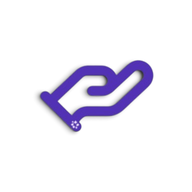
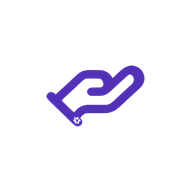
تحديث صفحة المساعد

Changed region(s): [[0.1875, 0.3125, 0.8125, 0.7188], [0.625, 0.4062, 0.6562, 0.4375], [0.5938, 0.4375, 0.625, 0.4688]]

diff --git a/src/routes/shared.js b/src/routes/shared.js
@@ -25,7 +25,7 @@ if(!c.u)return{reply:'سجّل دخولك حتى أبحث لك عن المساع
 const hits=matchSections(t),city=ASSIST_CITIES.find(x=>t.includes(x))||null;
 if(!hits.length){run("INSERT INTO failed_searches(text,reason,city) VALUES(?,'no_category',?)",cleanSearch(t),city);return{reply:'لم أجد قسمًا مناسبًا لطلبك. جرّب وصف الخدمة بكلمات أخرى، أو اقترح قسمًا جديدًا إذا كانت خدمتك غير موجودة.',noMatch:1,sections:all('SELECT id,name FROM skill_categories ORDER BY sort,name'),providers:[],requests:[]}}
 const ids=hits.map(h=>h.id),ph=ids.map(()=>'?').join(','),names=hits.map(h=>h.name).join('، ');const modeOf=Object.fromEntries(all(`SELECT id,mode FROM skill_categories WHERE id IN (${ph})`,...ids).map(r=>[r.id,r.mode]));const onlineIds=ids.filter(i=>modeOf[i]==='online');let onsiteIds=ids.filter(i=>modeOf[i]!=='online');const closedCity=!!(city&&onsiteIds.length&&!cityOpen(city));if(closedCity)onsiteIds=[];const onsiteQ=onsiteIds.map(()=>'?').join(',')||'NULL',onlineQ=onlineIds.map(()=>'?').join(',')||'NULL';
-const providers=all(`SELECT u.id,u.name,u.city,(SELECT COUNT(*) FROM agreements g WHERE (g.a_id=u.id OR g.b_id=u.id) AND g.status='completed') done,(SELECT ROUND(AVG(a.stars),1) FROM ratings a WHERE a.ratee_id=u.id AND a.hidden=0) avg,(SELECT COUNT(*) FROM ratings a WHERE a.ratee_id=u.id AND a.hidden=0) rcount,(SELECT COUNT(*) FROM post_likes pl JOIN posts p ON p.id=pl.post_id WHERE p.user_id=u.id AND p.hidden=0) likes,(SELECT value FROM settings WHERE key='avatar:'||u.id) avatar,COUNT(DISTINCT us.category_id) matched FROM users u JOIN user_sections us ON us.user_id=u.id WHERE ((us.category_id IN (${onsiteQ}) ${city?"AND u.city LIKE ? ESCAPE '\\'":''}) OR us.category_id IN (${onlineQ})) AND u.active=1 AND u.email_verified=1 AND u.flagged=0 AND (u.vat_status IS NOT 'registered' OR u.vat_verified!=2) AND (u.suspended_until IS NULL OR u.suspended_until<=datetime('now'))  GROUP BY u.id ORDER BY matched DESC,done DESC,avg DESC LIMIT 10`,...onsiteIds,...(city?[`%${likeEsc(city)}%`]:[]),...onlineIds);
+const providers=all(`SELECT u.id,u.name,u.city,(SELECT COUNT(*) FROM agreements g WHERE (g.a_id=u.id OR g.b_id=u.id) AND (g.status='completed' OR (g.paid_at IS NOT NULL AND g.status NOT IN ('disputed','closed_disputed','cancelled')))) done,(SELECT ROUND(AVG(a.stars),1) FROM ratings a WHERE a.ratee_id=u.id AND a.hidden=0) avg,(SELECT COUNT(*) FROM ratings a WHERE a.ratee_id=u.id AND a.hidden=0) rcount,(SELECT COUNT(*) FROM post_likes pl JOIN posts p ON p.id=pl.post_id WHERE p.user_id=u.id AND p.hidden=0) likes,(SELECT value FROM settings WHERE key='avatar:'||u.id) avatar,COUNT(DISTINCT us.category_id) matched FROM users u JOIN user_sections us ON us.user_id=u.id WHERE ((us.category_id IN (${onsiteQ}) ${city?"AND u.city LIKE ? ESCAPE '\\'":''}) OR us.category_id IN (${onlineQ})) AND u.active=1 AND u.email_verified=1 AND u.flagged=0 AND (u.vat_status IS NOT 'registered' OR u.vat_verified!=2) AND (u.suspended_until IS NULL OR u.suspended_until<=datetime('now'))  GROUP BY u.id ORDER BY matched DESC,done DESC,avg DESC LIMIT 10`,...onsiteIds,...(city?[`%${likeEsc(city)}%`]:[]),...onlineIds);
 if(!providers.length)run("INSERT INTO failed_searches(text,reason,city,category_id) VALUES(?,'no_provider',?,?)",cleanSearch(t),city,hits[0].id);
 const closedNote=closedCity?`الخدمات الحضورية (${names}) في ${city} ما زالت قيد التجهيز، وستُفتح عند توفر مساعدين كافين. `:'';
 const reply=closedNote+(providers.length?`وجدت ${providers.length} مساعدًا مسجلًا في: ${names}${city?' في '+city:''}.`:`لا يوجد مساعدون مسجلون في: ${names}${city?' في '+city:''} بعد.`+(city?'':' حدّد المدينة لنتائج أدق.'));
@@ -40,4 +40,4 @@ for(const k of new Set([normAr(name),...kws]))run('INSERT OR IGNORE INTO skill_k
 all("SELECT id FROM users WHERE role='admin'").forEach(a=>notify(a.id,`مهارة جديدة بانتظار الاعتماد: ${name}`,'#/admin'));return{id,status:'pending'}});
 route('GET','/providers/(\\d+)',c=>{const id=+c.p[0];const u=get('SELECT id,name,city,bio FROM users WHERE id=? AND active=1',id);if(!u)throw err(404,'المساعد غير موجود');
 const ex=get('SELECT account_type t,map_url m FROM users WHERE id=?',id)||{};let showcase=[];try{showcase=JSON.parse((get('SELECT value FROM settings WHERE key=?','showcase:'+id)||{}).value||'[]').map(a=>({attachment_id:a,mime:get('SELECT mime FROM attachments WHERE id=?',a)?.mime||''}))}catch{}
-return{id:u.id,is_helper:ex.t==='helper',map_url:ex.m||'',showcase,name:u.name,city:u.city||'',bio:u.bio||'',short_address:(get('SELECT short_address s FROM users WHERE id=?',id)||{}).s||(get("SELECT number FROM helper_docs WHERE user_id=? AND kind='address'",id)||{}).number||'',skills:(()=>{const sp=all("SELECT s.name FROM user_skills us JOIN skills s ON s.id=us.skill_id WHERE us.user_id=? AND s.status='approved' ORDER BY s.name",id).map(x=>x.name);return sp.length?sp:all("SELECT c.name FROM user_sections us JOIN skill_categories c ON c.id=us.category_id WHERE us.user_id=? ORDER BY c.sort",id).map(x=>x.name)})(),done:get("SELECT COUNT(*) n FROM agreements WHERE (a_id=? OR b_id=?) AND status='completed'",id,id).n,clients:get('SELECT COUNT(DISTINCT CASE WHEN a_id=? THEN b_id ELSE a_id END) n FROM agreements WHERE a_id=? OR b_id=?',id,id,id).n,avg:get('SELECT ROUND(AVG(stars),1) a FROM ratings WHERE ratee_id=? AND hidden=0',id).a,count:get('SELECT COUNT(*) n FROM ratings WHERE ratee_id=? AND hidden=0',id).n,reviews:all("SELECT a.stars,a.comment,a.created_at,r.name,r.account_type FROM ratings a JOIN users r ON r.id=a.rater_id WHERE a.ratee_id=? AND a.hidden=0 ORDER BY a.id DESC LIMIT 10",id).map(x=>({stars:x.stars,comment:x.comment||'',at:String(x.created_at).slice(0,10),name:/* العميل: الاسم الأول فقط للخصوصية. المساعد (مؤسسة/شركة): الاسم كاملًا */x.account_type==='helper'?String(x.name):String(x.name).split(' ')[0]})),avatar:(get('SELECT value FROM settings WHERE key=?','avatar:'+id)||{}).value||null,cover:(get('SELECT value FROM settings WHERE key=?','cover:'+id)||{}).value||null,portfolio:all('SELECT p.id,p.attachment_id,p.caption,p.kind,a.mime FROM portfolio p JOIN attachments a ON a.id=p.attachment_id WHERE p.user_id=? ORDER BY p.id DESC LIMIT 30',id)}});
+return{id:u.id,is_helper:ex.t==='helper',map_url:ex.m||'',showcase,name:u.name,city:u.city||'',bio:u.bio||'',short_address:(get('SELECT short_address s FROM users WHERE id=?',id)||{}).s||(get("SELECT number FROM helper_docs WHERE user_id=? AND kind='address'",id)||{}).number||'',skills:(()=>{const sp=all("SELECT s.name FROM user_skills us JOIN skills s ON s.id=us.skill_id WHERE us.user_id=? AND s.status='approved' ORDER BY s.name",id).map(x=>x.name);return sp.length?sp:all("SELECT c.name FROM user_sections us JOIN skill_categories c ON c.id=us.category_id WHERE us.user_id=? ORDER BY c.sort",id).map(x=>x.name)})(),done:get("SELECT COUNT(*) n FROM agreements WHERE (a_id=? OR b_id=?) AND (status='completed' OR (paid_at IS NOT NULL AND status NOT IN ('disputed','closed_disputed','cancelled')))",id,id).n,clients:get('SELECT COUNT(DISTINCT CASE WHEN a_id=? THEN b_id ELSE a_id END) n FROM agreements WHERE a_id=? OR b_id=?',id,id,id).n,avg:get('SELECT ROUND(AVG(stars),1) a FROM ratings WHERE ratee_id=? AND hidden=0',id).a,count:get('SELECT COUNT(*) n FROM ratings WHERE ratee_id=? AND hidden=0',id).n,reviews:all("SELECT a.stars,a.comment,a.created_at,r.name,r.account_type FROM ratings a JOIN users r ON r.id=a.rater_id WHERE a.ratee_id=? AND a.hidden=0 ORDER BY a.id DESC LIMIT 10",id).map(x=>({stars:x.stars,comment:x.comment||'',at:String(x.created_at).slice(0,10),name:/* العميل: الاسم الأول فقط للخصوصية. المساعد (مؤسسة/شركة): الاسم كاملًا */x.account_type==='helper'?String(x.name):String(x.name).split(' ')[0]})),avatar:(get('SELECT value FROM settings WHERE key=?','avatar:'+id)||{}).value||null,cover:(get('SELECT value FROM settings WHERE key=?','cover:'+id)||{}).value||null,portfolio:all('SELECT p.id,p.attachment_id,p.caption,p.kind,a.mime FROM portfolio p JOIN attachments a ON a.id=p.attachment_id WHERE p.user_id=? ORDER BY p.id DESC LIMIT 30',id)}});

diff --git a/public/app.js b/public/app.js
@@ -83,7 +83,7 @@ const SV=p=>`<svg viewBox="0 0 24 24" class=dcs aria-hidden="true">${p}</svg>`;
 const TOPIC_P='<rect x="5" y="3" width="14" height="18" rx="2.5"/><path d="M9 8h6M9 12h6M9 16h4"/>',CARD_P='<rect x="2.5" y="5.5" width="19" height="13" rx="2.5"/><path d="M2.5 10h19"/>',DOTS_P='<circle cx="5" cy="12" r="1.8" fill="currentColor"/><circle cx="12" cy="12" r="1.8" fill="currentColor"/><circle cx="19" cy="12" r="1.8" fill="currentColor"/>',PERSON_P='<circle cx="12" cy="8" r="4"/><path d="M4 21c0-4.4 3.6-7 8-7s8 2.6 8 7"/>',RECEIPT_P='<path d="M6 3h12v18l-3-2-3 2-3-2-3 2z"/><path d="M9 8h6M9 12h6"/>',MONEY_P='<rect x="2.5" y="6.5" width="19" height="11" rx="2"/><circle cx="12" cy="12" r="2.5"/>',LINK_P='<path d="M10 14a4 4 0 0 0 5.7 0l3-3a4 4 0 0 0-5.7-5.7l-1 1"/><path d="M14 10a4 4 0 0 0-5.7 0l-3 3a4 4 0 0 0 5.7 5.7l1-1"/>',CHECK_P='<path d="M5 12.5l4.5 4.5L19 7.5"/>';
 const SEND_SVG='<svg viewBox="0 0 24 24" class=dcs-fill aria-hidden="true"><path d="M3.4 11.1 20.6 3.3c.8-.4 1.6.4 1.2 1.2l-7.8 17.2c-.4.8-1.5.8-1.8 0l-2.2-6.7-6.7-2.2c-.8-.3-.8-1.4 0-1.6z"/></svg>';
 function DCHAT_MARKUP(){return `<section id=dchat><div id=dagr class=agr></div><div id=dmsgs class=dmsgs></div></section><form id=dform autocomplete=off><button type=button class=dc-attach id=dpic aria-label="إرفاق صورة">${SV(I.clip)}</button><input name=body maxlength=1000 placeholder="اكتب رسالتك..." aria-label="اكتب رسالتك"><button type=button class=dc-task id=dtask hidden></button><button class=dc-send aria-label="إرسال">${SEND_SVG}</button></form>`}
-async function directChat(id){if(!me.user){window.__postLogin=location.hash;location.hash='#/login';return}const peer=await api('/users/'+id).catch(()=>null);const name=(peer&&peer.name)||'المستخدم';document.body.classList.add('dchat-mode');app.innerHTML=`<div class=dc-top><span class=dc-logo><img src=/hand.png alt=""></span><div class=dc-title><b>${esc(name)}</b></div><div class=dc-plus-wrap><button type=button class=dc-plus id=plusBtn aria-haspopup=true aria-expanded=false aria-label="إضافة">+</button><div class=plus-menu id=plusMenu hidden><button type=button data-p=paylink id=plusPay hidden>رابط دفع${SV(CARD_P)}</button></div></div><button type=button class=dc-dots id=dcMenu aria-label="المحادثات السابقة">${SV(DOTS_P)}</button></div>`+DCHAT_MARKUP();$('#dcMenu').onclick=dcOpenDrawer;dchatInit(id)}
+async function directChat(id){if(!me.user){window.__postLogin=location.hash;location.hash='#/login';return}const peer=await api('/users/'+id).catch(()=>null);const name=(peer&&peer.name)||'المستخدم';document.body.classList.add('dchat-mode');app.innerHTML=`<div class=dc-top><span class=dc-logo><img src=/hand.png alt=""></span><div class=dc-title><b>${esc(name)}</b></div>${me.user.account_type==='helper'?`<div class=dc-plus-wrap><button type=button class=dc-plus id=plusBtn aria-haspopup=true aria-expanded=false aria-label="إضافة">+</button><div class=plus-menu id=plusMenu hidden><button type=button data-p=paylink id=plusPay hidden>رابط دفع${SV(CARD_P)}</button></div></div>`:''}<button type=button class=dc-dots id=dcMenu aria-label="المحادثات السابقة">${SV(DOTS_P)}</button></div>`+DCHAT_MARKUP();$('#dcMenu').onclick=dcOpenDrawer;dchatInit(id)}
 async function chats(){const l=await api('/chats');app.innerHTML=`<h2 style="margin:8px 0">صندوق الوارد</h2><div class=panel style="padding:0">${l.map(c=>{const href=c.request_id?`#/chat/${esc(c.request_id)}/${esc(c.peer)}`:`#/direct/${esc(c.peer)}`;const t=String(c.created_at||'');return `<a href="${href}" style="display:flex;align-items:center;gap:12px;padding:12px 14px;border-bottom:1px solid #ece8f8;text-decoration:none;color:inherit"><i style="width:52px;height:52px;border-radius:50%;background:#6445cc;color:#fff;display:grid;place-items:center;font-style:normal;font-weight:700;flex:0 0 auto">${esc((c.peer_name||'؟')[0])}</i><span style="flex:1;min-width:0"><b>${esc(c.peer_name)}</b><small style="display:block;color:#625a76;white-space:nowrap;overflow:hidden;text-overflow:ellipsis">${esc(c.title||'')}${c.body?' · '+esc(c.body.slice(0,50)):''}</small></span><small style="color:#9c94a8;flex:0 0 auto">${esc(t.slice(11,16))}</small></a>`}).join('')||'<div class=empty style="padding:20px">لا توجد محادثات بعد. تبدأ المحادثة من صفحة المساعد.</div>'}</div>`}
 const askKind=()=>new Promise(ok=>{const o=document.createElement('div');o.style.cssText='position:fixed;inset:0;background:#0008;z-index:50;display:grid;place-items:end center';o.innerHTML='<div style="background:#fff;width:100%;max-width:480px;border-radius:20px 20px 0 0;padding:18px;display:grid;gap:10px;direction:rtl"><b>أين تريد نشر هذا المقطع؟</b><button class=btn type=button data-k=reel>ريلز (يظهر للجميع)</button><button class="btn alt" type=button data-k=post>منشور (يظهر للجميع)</button></div>';o.onclick=e=>{const k=e.target.dataset&&e.target.dataset.k;if(k||e.target===o){o.remove();ok(k||null)}};document.body.append(o)});
 const accTabs=(pics,ro)=>{const posts=pics.filter(x=>x.kind!=='reel'),reels=pics.filter(x=>x.kind==='reel'),tl=a=>a.map(x=>`<figure>${mediaTag(x)}${x.caption?`<figcaption>${esc(x.caption)}</figcaption>`:''}</figure>`).join('');return `<div class=acc-tabs><nav><button type=button class=on data-tab=posts>المنشورات</button><button type=button data-tab=reels>ريلز</button></nav><div class=acc-grid id=tg-posts>${tl(posts)}${ro?'':'<button class=acc-add id=addWork type=button aria-label="إضافة صورة أو فيديو">+</button>'}${posts.length?'':`<div class=acc-empty>${ro?'لا توجد أعمال بعد.':'لم تضف أعمالًا بعد. ابدأ بإضافة صورة لعملك.'}</div>`}</div><div class=acc-grid id=tg-reels hidden>${tl(reels)}${ro?'':'<button class=acc-add id=addWork2 type=button aria-label="إضافة ريلز">+</button>'}${reels.length?'':`<div class=acc-empty>${ro?'لا توجد ريلز بعد.':'لا توجد ريلز بعد. ارفع فيديو واختر «ريلز».'}</div>`}</div></div>`};
@@ -553,7 +553,7 @@ function openShopCard(p){
   document.body.append(ov);
 }
 // صفحة مشاركة الملف الشخصي (على نمط مشاركة الانستقرام): رمز QR بشعار المساعد + مشاركة / نسخ الرابط / تنزيل
-const SHARE_LOGO_VIEW='40 130 390 250'; // حدود اليد داخل logo-new.png بلا الهوامش البيضاء
+const SHARE_LOGO_VIEW='37 131 393 249'; // حدود اليد داخل logo-new.png بلا الهوامش البيضاء
 const SHARE_STYLES=['شعار','ألوان'];
 async function copyText(t){
   try{await navigator.clipboard.writeText(t);return true}catch{
@@ -586,7 +586,7 @@ async function shareImage(url,name,style){
   x.fill(new Path2D(q.dots));x.fill(new Path2D(q.finders),'evenodd');x.restore();
   if(q.box.size){
     const pad=.5,bs=(q.box.size-2*pad)*u,lw=bs,lh=bs*250/390,lx=qx+(q.box.x+pad)*u,ly=qy+q.box.y*u+(q.box.size*u-lh)/2;
-    x.drawImage(logo,40,130,390,250,lx,ly,lw,lh);
+    x.drawImage(logo,37,131,393,249,lx,ly,lw,lh);
   }
   x.textAlign='center';x.textBaseline='middle';x.direction='rtl';x.fillStyle=PURPLE;
   let fs=64;x.font=`700 ${fs}px ${F}`;

diff --git a/public/sw.js b/public/sw.js
@@ -1,5 +1,5 @@
 // ---- تطبيق ويب قابل للتثبيت: تخزين الواجهة الثابتة فقط (لا يُخزَّن أي شيء من /api) ----
-const CACHE = 'musaed-shell-v33';
+const CACHE = 'musaed-shell-v37';
 const SHELL = ['/', '/app.css', '/app.js', '/qr.js', '/splash.js','/logo.png', '/hand.png', '/icon-192.png'];
 const OFFLINE_HTML = '<!doctype html><html lang="ar" dir="rtl"><meta charset="utf-8"><meta name="viewport" content="width=device-width,initial-scale=1"><title>المساعد</title><body style="font-family:Tahoma,sans-serif;background:#fbfaff;color:#5331b6;display:grid;place-items:center;min-height:100vh;margin:0;text-align:center;padding:24px"><div><h1 style="margin:0 0 8px">لا يوجد اتصال بالإنترنت</h1><p style="color:#625a76">تأكد من اتصالك ثم أعد المحاولة.</p><button onclick="location.reload()" style="font:inherit;background:#5331b6;color:#fff;border:0;border-radius:12px;padding:12px 24px;min-height:44px">إعادة المحاولة</button></div></body></html>';
 
